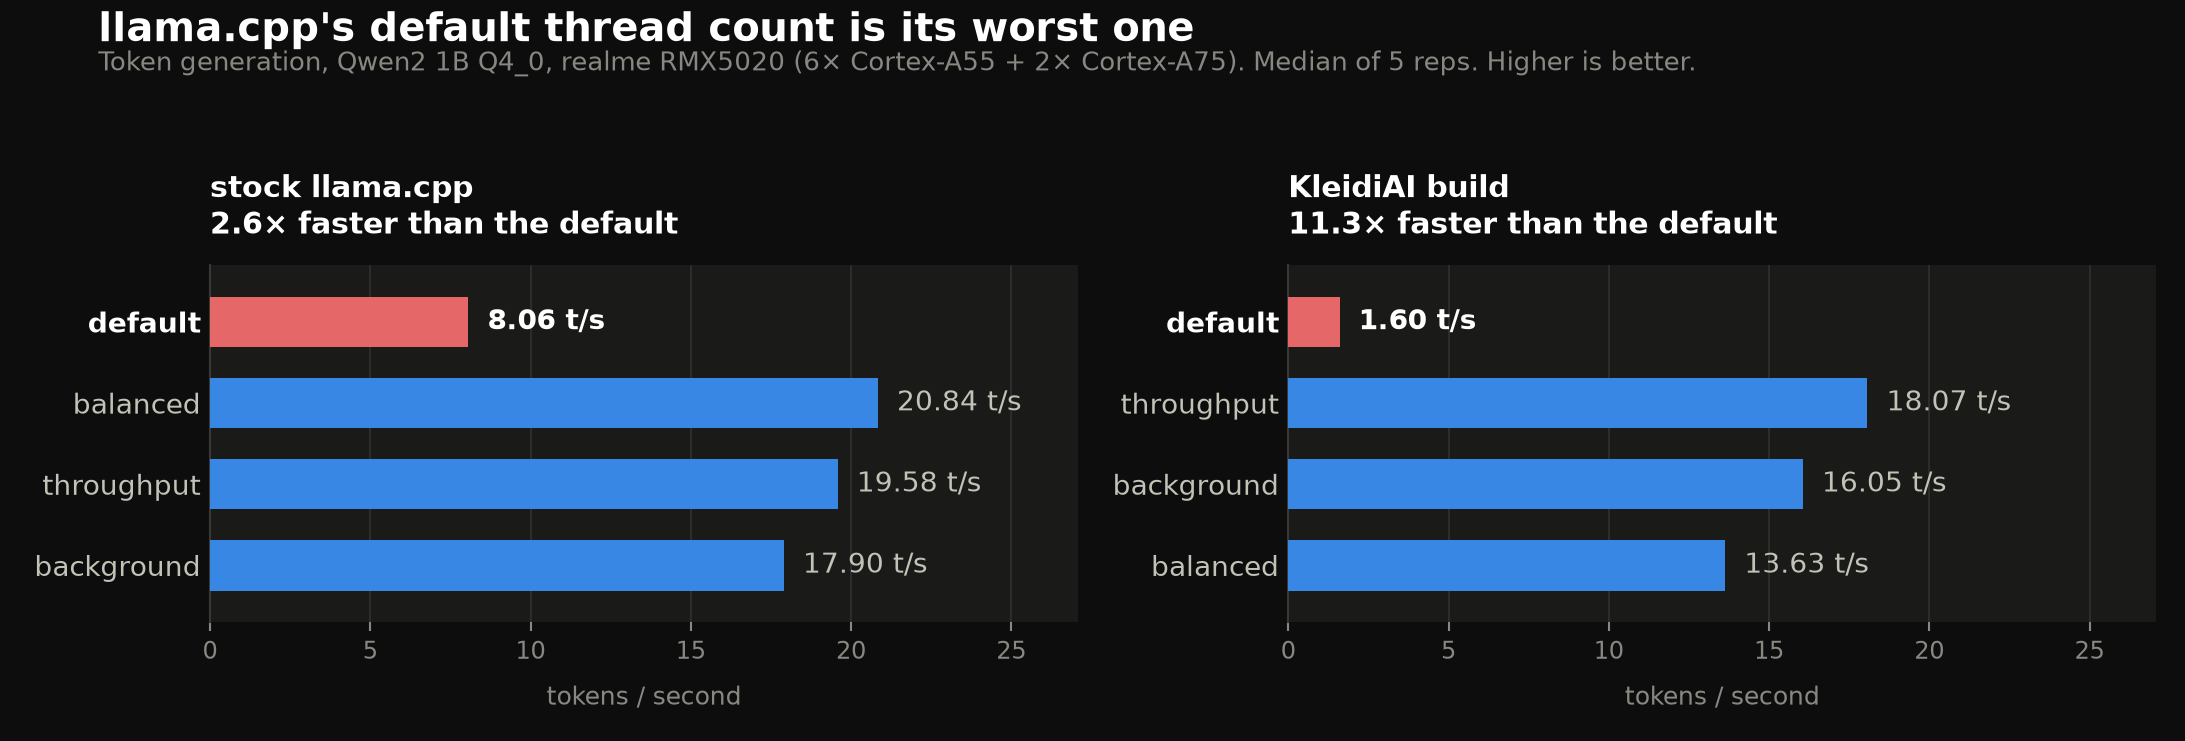
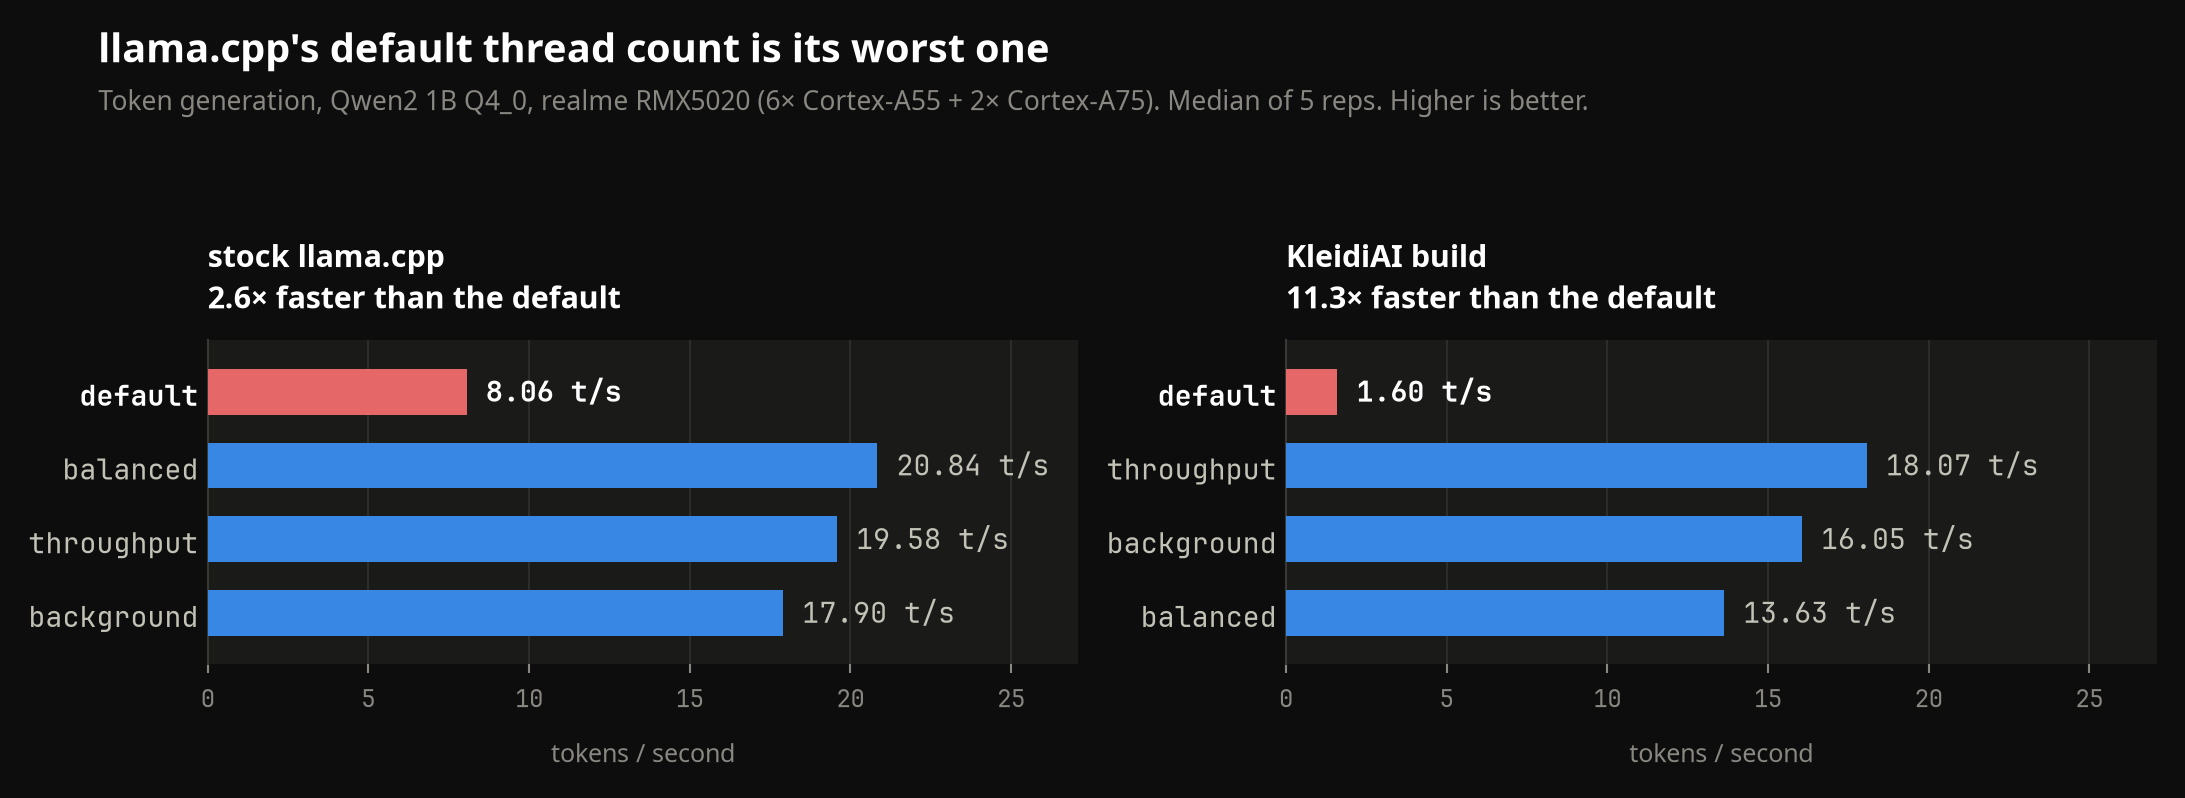
style(assets): real type - sans for prose, mono for measurements
Numbers, preset names and axis ticks now set in JetBrains Mono; everything else
in Noto Sans. The split is the point rather than decoration: mono digits are
tabular by construction so the value labels line up down a column, and it makes
the figures read as instrument output, which is the claim.

_pick() now requires a real 700 weight before accepting a family. Not pedantry -
Adwaita Sans ships 400 only on this machine and Figtree ships 300 only, and
matplotlib answers a bold request against those by emitting a findfont warning
and silently rendering regular. Every emphasis in the chart would have quietly
stopped working while still looking deliberate. Adwaita Sans was the nicer face
and is the reason the check exists.

Title and subtitle also needed re-spacing: Noto Sans sits taller than the face
it replaced and the two collided.

diff --git a/llama.cpp/harness/hero_figures.py b/llama.cpp/harness/hero_figures.py
@@ -29,7 +29,7 @@ from pathlib import Path
 import matplotlib
 matplotlib.use("Agg")
 import matplotlib.pyplot as plt
-
+from matplotlib import font_manager as fm
 
 HERE = Path(__file__).resolve().parent
 OUT = HERE.parent.parent / "assets"
@@ -49,6 +49,42 @@ CONTEXT = "#3987e5"  # the presets - context
 
 RUNS = [("presets_stock", "stock llama.cpp"),
         ("presets_kai", "KleidiAI build")]
+
+
+def _pick(*names, bold=True):
+    """First installed family from names, else matplotlib's default.
+
+    Requires a real 700 weight when bold=True. This is not pedantry: several
+    otherwise-good faces here ship a single weight - Adwaita Sans is 400 only,
+    Figtree is 300 only - and matplotlib answers a bold request against them by
+    warning and silently rendering regular. Every emphasis in the chart would
+    quietly stop working, which is worse than using a slightly plainer face.
+
+    Listed rather than hardcoded so the figures still render on a machine
+    without any of them; the cost of a miss is that it looks worse, not that
+    the build breaks.
+    """
+    weights = {}
+    for f in fm.fontManager.ttflist:
+        weights.setdefault(f.name, set()).add(f.weight)
+    for n in names:
+        if n in weights and (not bold or 700 in weights[n]):
+            return n
+    return "sans-serif" if bold else "monospace"
+
+
+# Sans for prose, mono for anything that is a measurement. The split is the
+# point: it makes numbers read as instrument output rather than as decoration,
+# and mono digits are tabular by construction so the value labels line up.
+FONT_SANS = _pick("Inter", "Noto Sans", "Liberation Sans", "DejaVu Sans")
+FONT_MONO = _pick("JetBrains Mono", "JetBrainsMono NF", "Hack",
+                  "DejaVu Sans Mono")
+
+plt.rcParams.update({
+    "font.family": FONT_SANS,
+    "figure.dpi": 190,
+    "axes.unicode_minus": False,
+})
 
 
 def load(run):
@@ -76,10 +112,10 @@ def bars(ax, labels, values, fmt, span, note):
         ax.text(v + span * 0.022, i, fmt(v), va="center", ha="left",
                 color=INK if lab == "default" else INK_2,
                 fontsize=10.5, fontweight="bold" if lab == "default" else "normal",
-                zorder=4)
+                fontfamily=FONT_MONO, zorder=4)
     ax.set_yticks(list(y))
-    ax.set_yticklabels(labels, fontsize=10.5,
-                       color=INK_2)
+    ax.set_yticklabels(labels, fontsize=10.5, color=INK_2,
+                       fontfamily=FONT_MONO)
     for t, lab in zip(ax.get_yticklabels(), labels):
         if lab == "default":
             t.set_color(INK)
@@ -89,6 +125,8 @@ def bars(ax, labels, values, fmt, span, note):
     ax.invert_yaxis()
     ax.set_xlabel(note, color=MUTED, fontsize=9.5, labelpad=8)
     ax.tick_params(axis="x", colors=MUTED, labelsize=9)
+    for t in ax.get_xticklabels():
+        t.set_fontfamily(FONT_MONO)
     ax.tick_params(axis="y", length=0)
     ax.grid(axis="x", color=GRID, linewidth=0.8, zorder=0)
     ax.set_axisbelow(True)
@@ -99,7 +137,7 @@ def bars(ax, labels, values, fmt, span, note):
 
 
 def figure(metric, title, sub, fmt, better_is_low, note, fname):
-    fig, axes = plt.subplots(1, 2, figsize=(11.5, 3.9))
+    fig, axes = plt.subplots(1, 2, figsize=(11.5, 4.2))
     fig.patch.set_facecolor(PAGE)
 
     panels = []
@@ -132,9 +170,9 @@ def figure(metric, title, sub, fmt, better_is_low, note, fname):
                      color=INK, fontsize=11.5, pad=12, loc="left", fontweight="bold")
 
     fig.suptitle(title, color=INK, fontsize=15, fontweight="bold",
-                 x=0.045, y=0.985, ha="left")
-    fig.text(0.045, 0.905, sub, color=MUTED, fontsize=10, ha="left")
-    fig.tight_layout(rect=(0, 0, 1, 0.90))
+                 x=0.045, y=0.975, ha="left", va="top")
+    fig.text(0.045, 0.862, sub, color=MUTED, fontsize=10, ha="left")
+    fig.tight_layout(rect=(0, 0, 1, 0.845))
     OUT.mkdir(exist_ok=True)
     fig.savefig(OUT / fname, dpi=190, facecolor=PAGE)
     print("wrote", OUT / fname)
